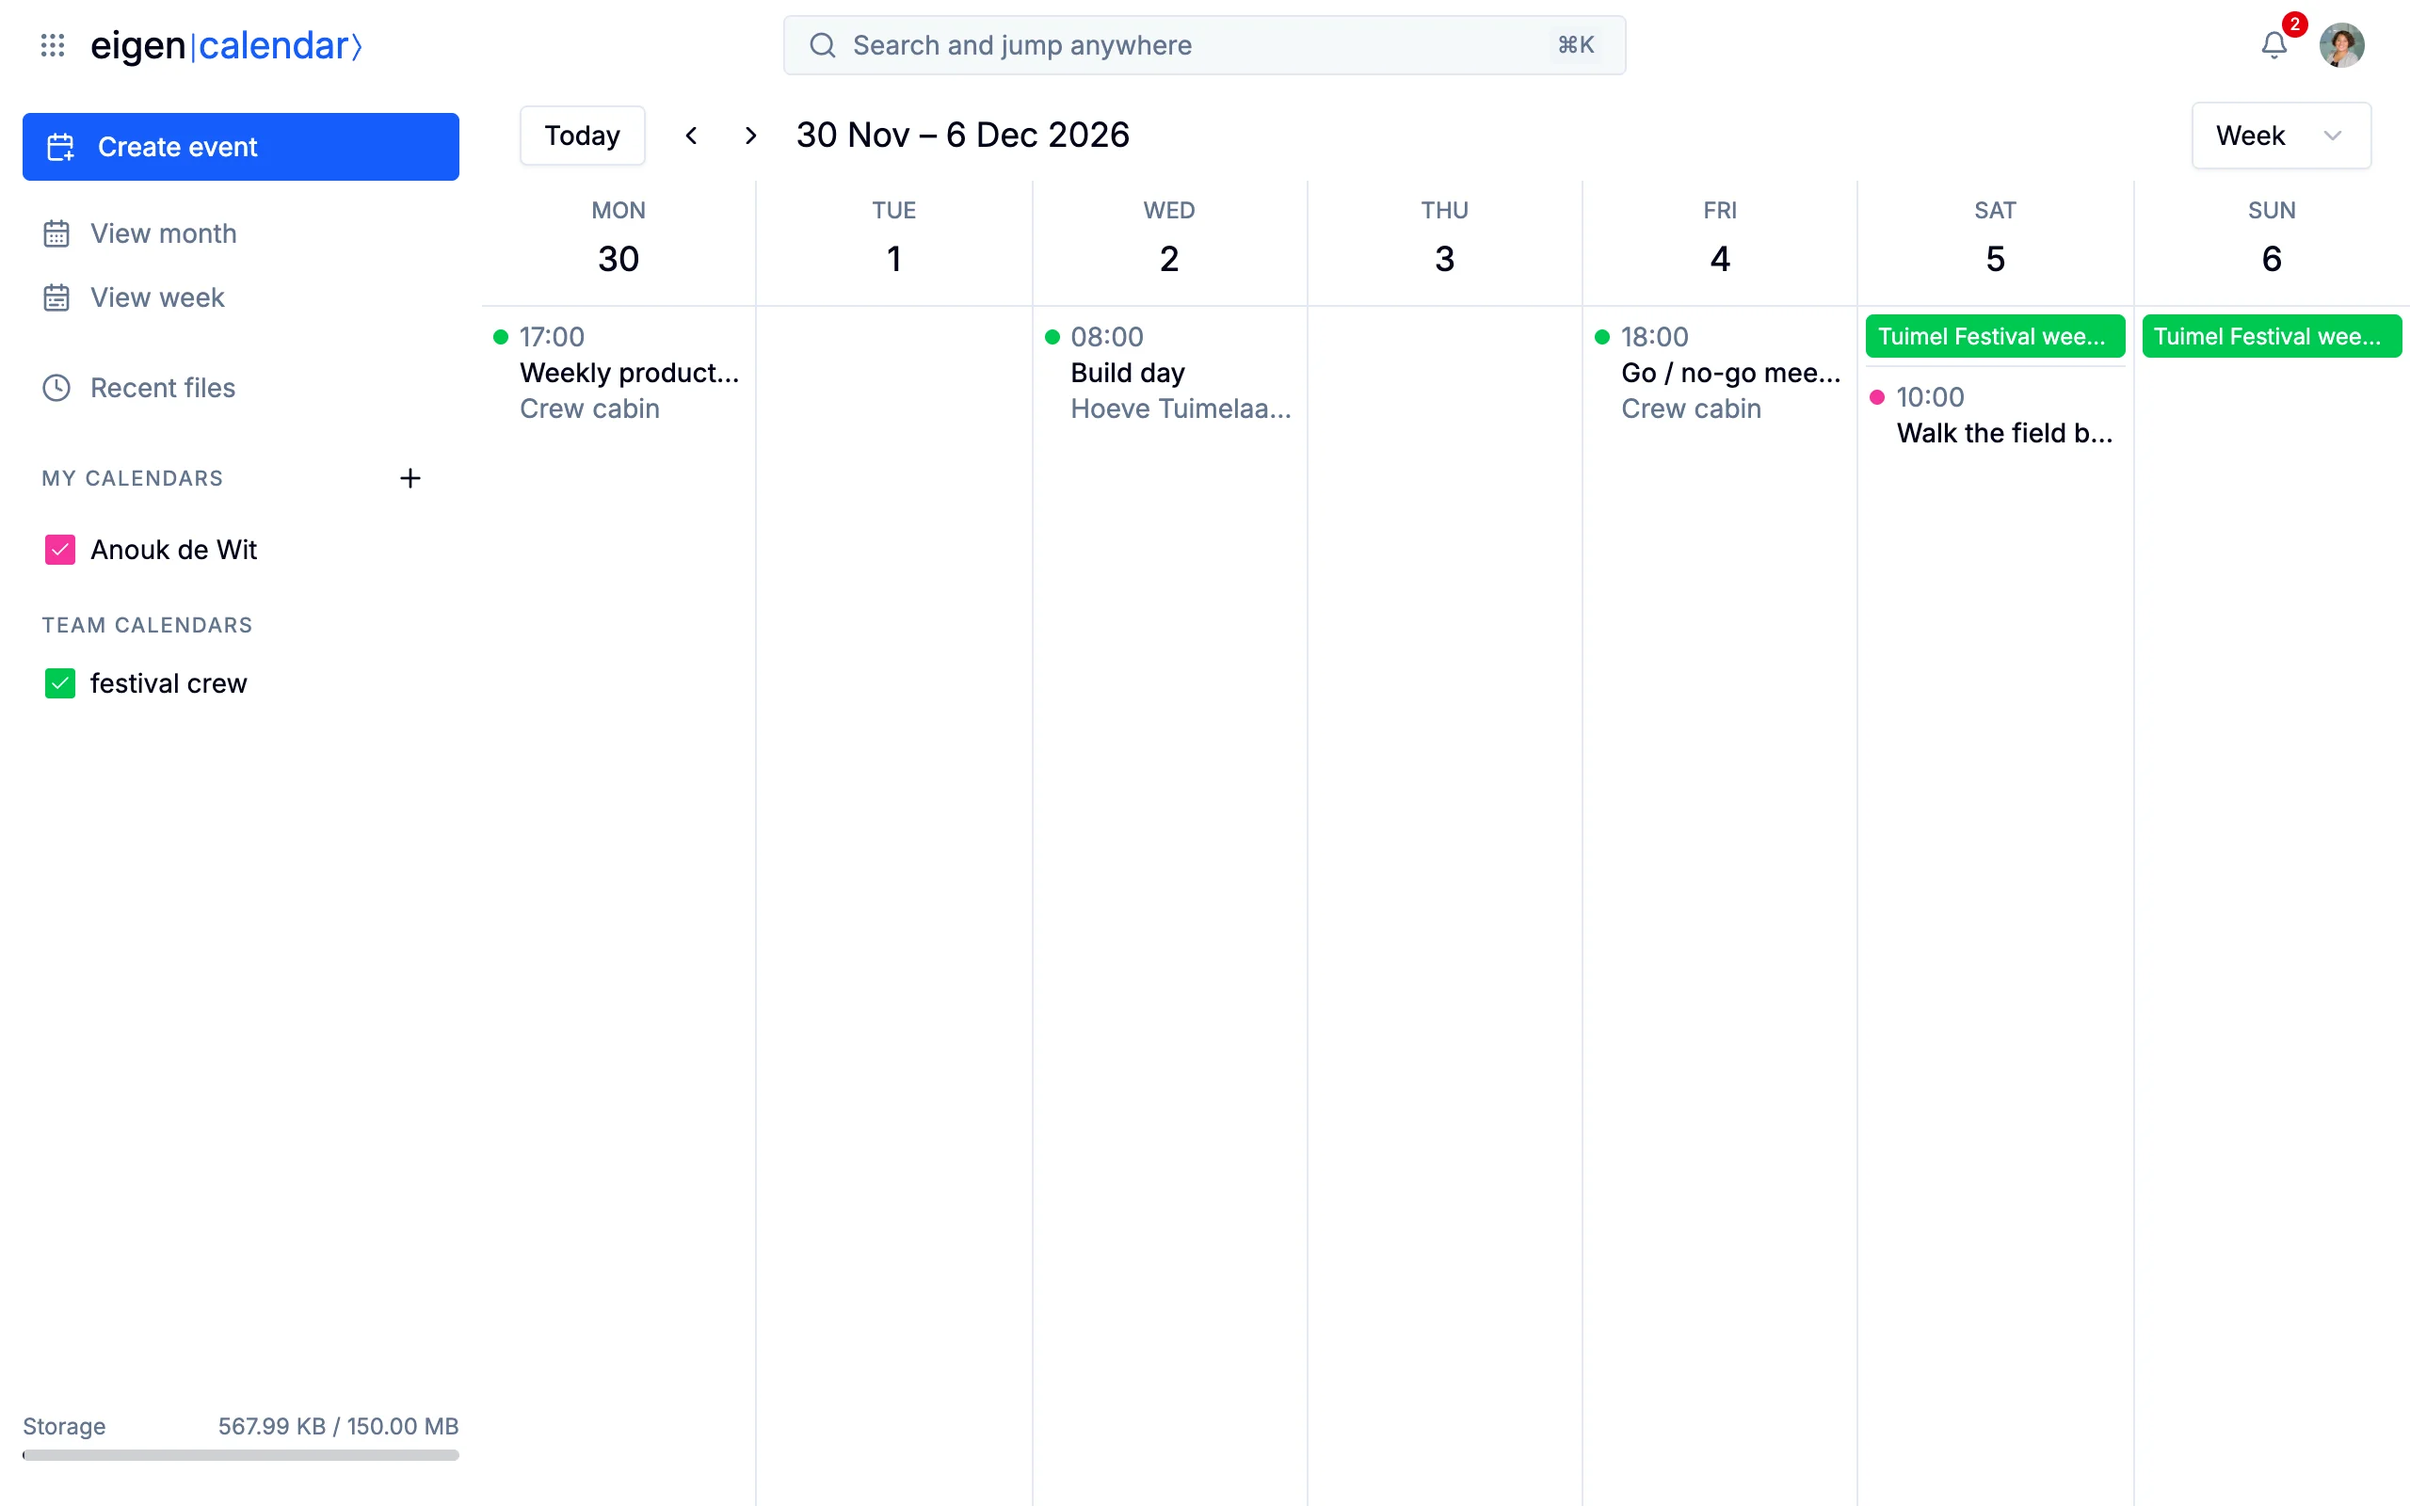
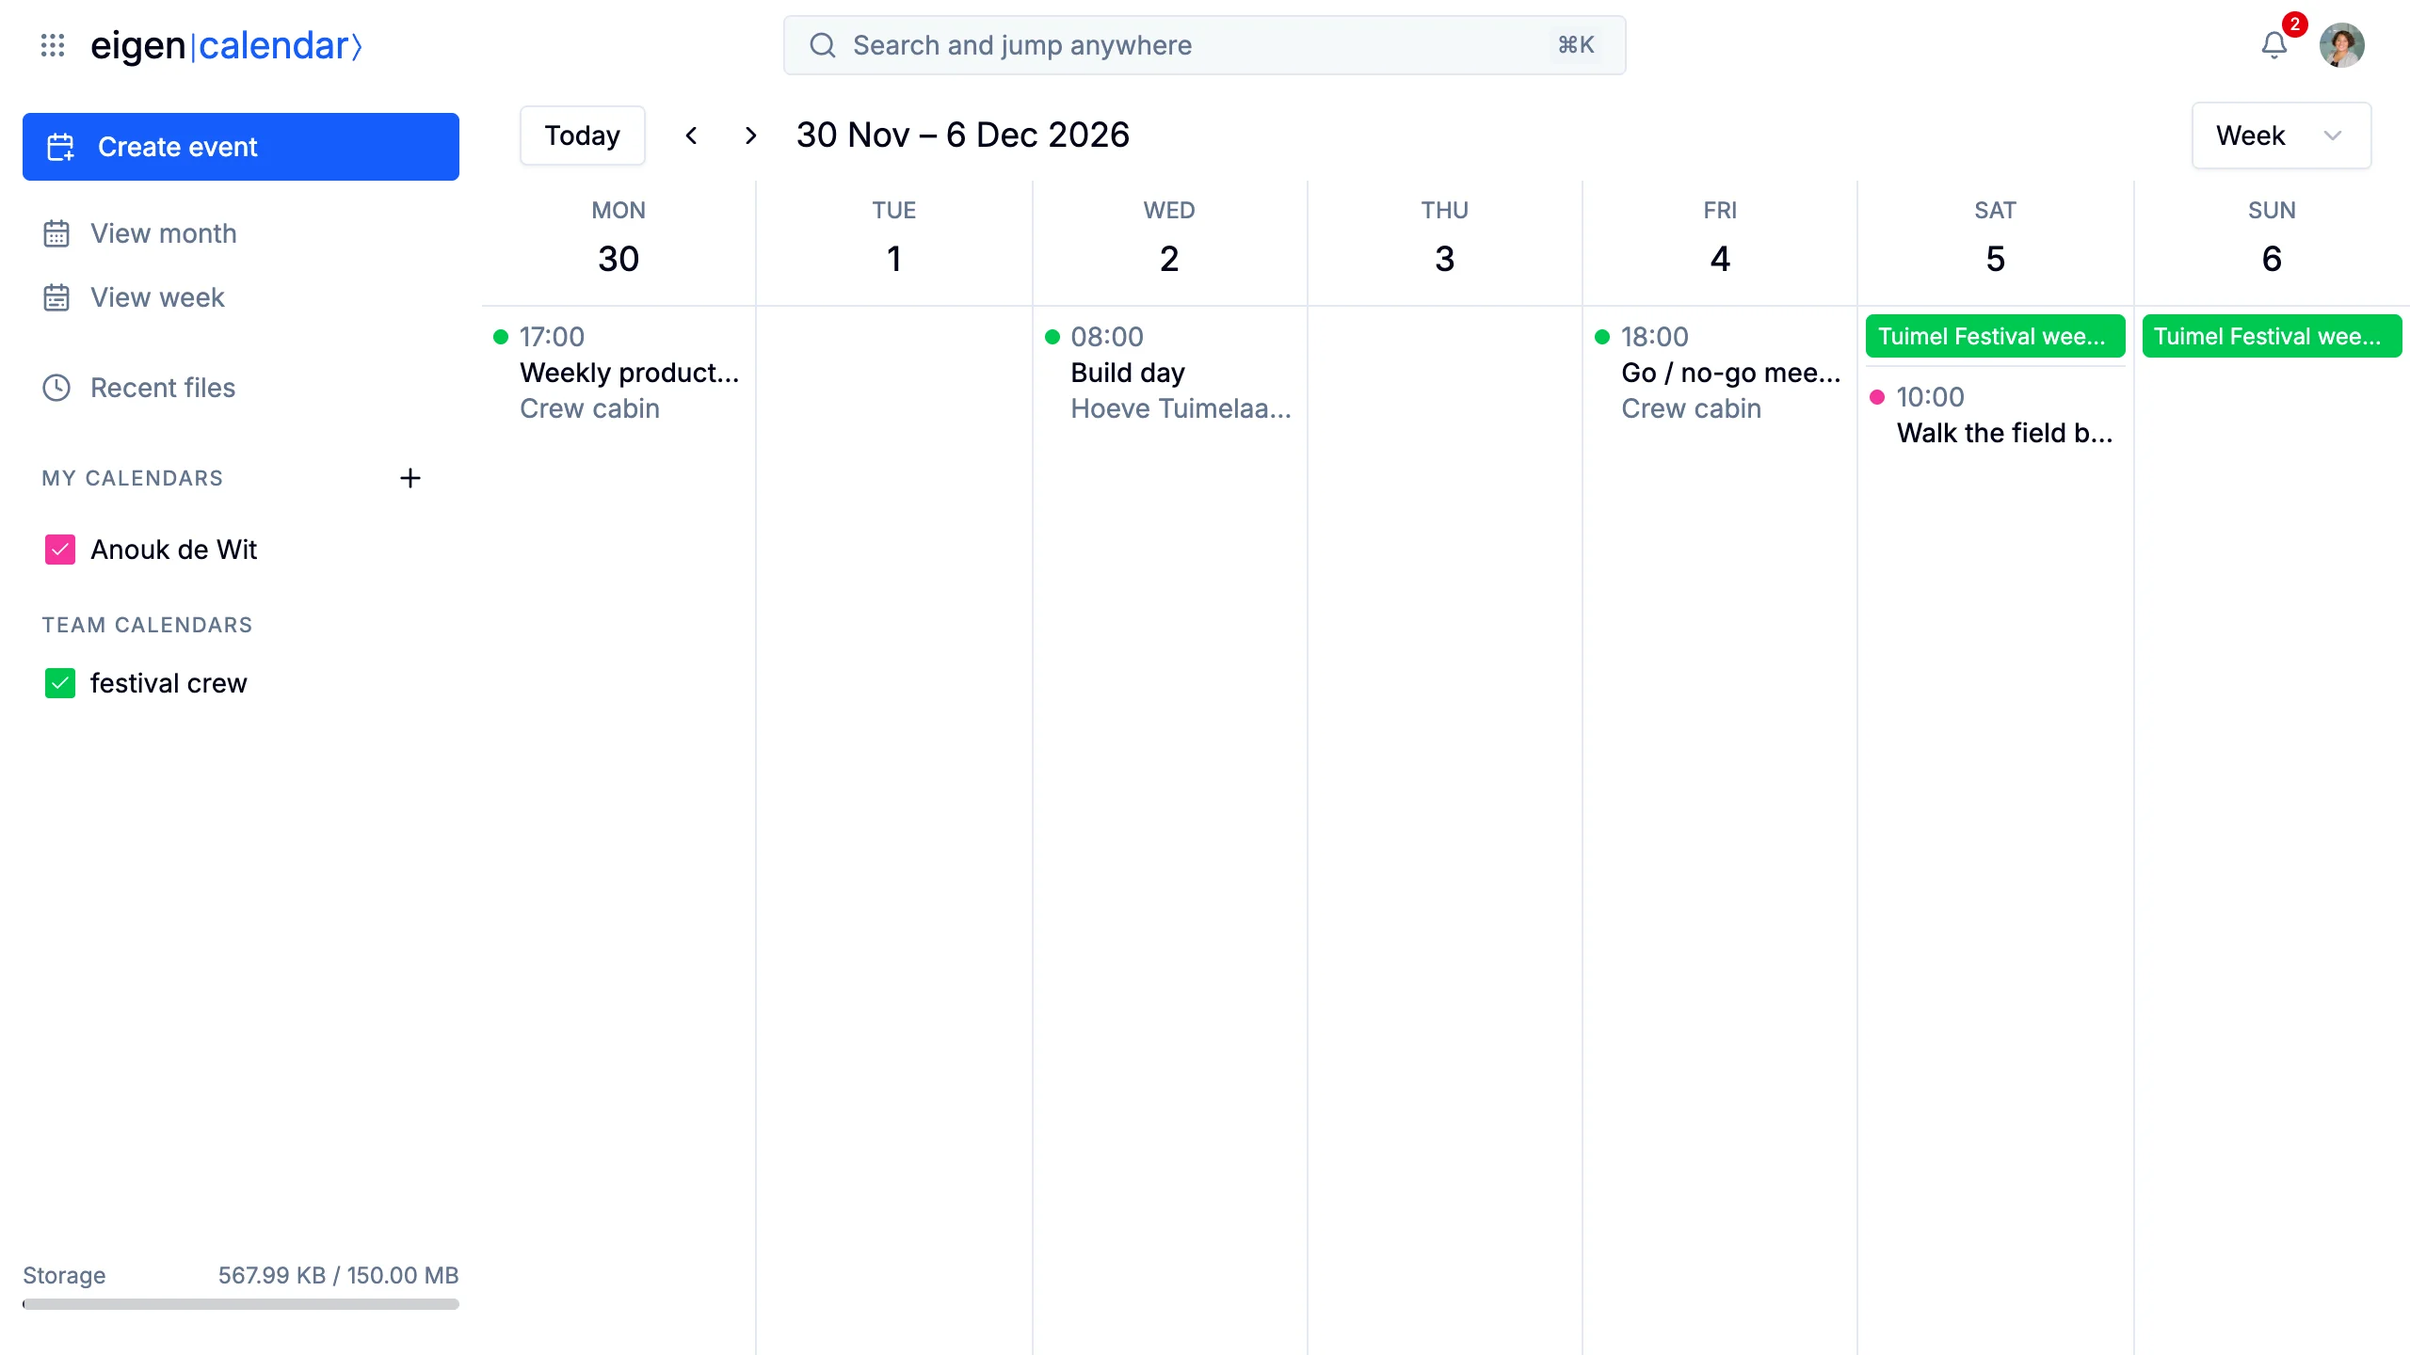
feat(index): every still has the films' 16:9 shape
The stills on the About pages were 16:10 while every film is 16:9, so a
carousel that mixed them changed height from slide to slide. The ten
overview row stills now film at 1280x720 and the two Sheets stills at
1600x900. The budget table and its chart still fit whole, and each row
still keeps its app's main view.

diff --git a/apps/index/capture/scenes/rows.ts b/apps/index/capture/scenes/rows.ts
@@ -19,7 +19,7 @@ const row = (app: string, theme: Scene['theme'], run: Scene['run']): Scene => ({
     name: basename(aboutRowStill(app), '.webp'),
     kind: 'still',
     theme,
-    viewport: { width: 1280, height: 800 },
+    viewport: { width: 1280, height: 720 },
     apps: [app],
     personas: ['anouk'],
     run,

diff --git a/apps/index/capture/scenes/sheets-stills.ts b/apps/index/capture/scenes/sheets-stills.ts
@@ -6,7 +6,7 @@ import { openBudget } from './budget';
 
 const still: Pick<Scene, 'kind' | 'viewport' | 'apps' | 'personas'> = {
     kind: 'still',
-    viewport: { width: 1600, height: 1000 },
+    viewport: { width: 1600, height: 900 },
     apps: ['sheets'],
     personas: ['bram'],
 };
